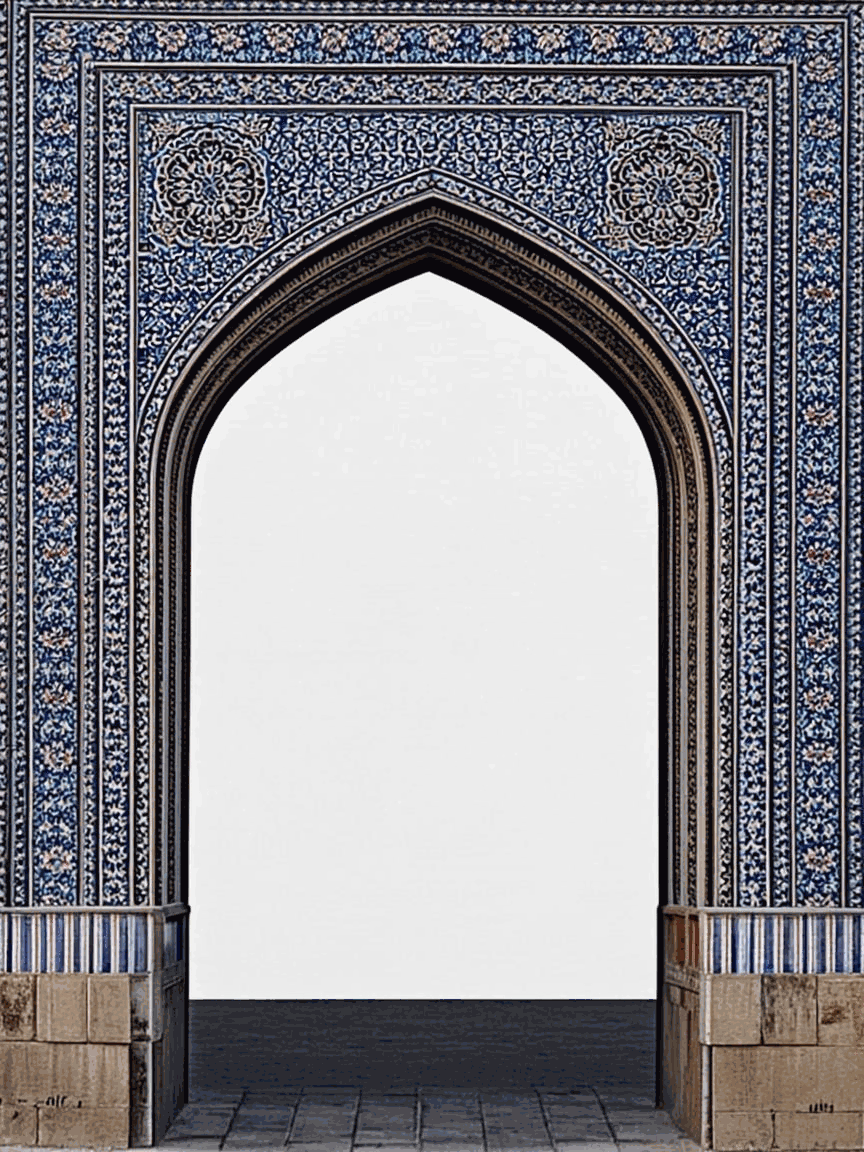
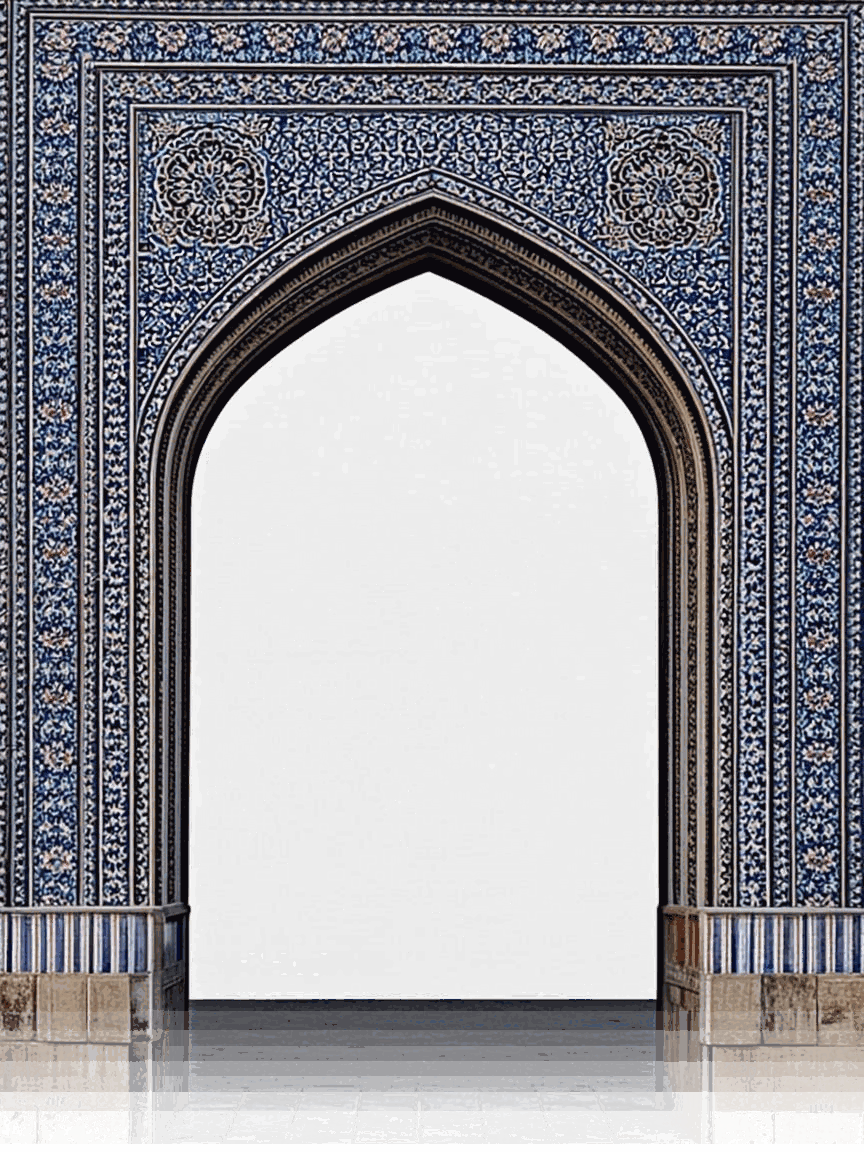
Polish round: clean shamsa halo + arch horizon fade + layout refinements
- shamsa-bukhara.png: circular recut, removed the gray shadow field that
  showed as a white halo (venue plate, Nikah medallion, countdown and
  envelope lace)
- arch-bukhara-tall.png: smoothstep alpha fade across the stone base so
  the pishtaq dissolves into the dawn horizon (kills the rectangle cut
  and the rectangular drop-shadow)
- hero card: fits on all widths now (inner geometry + type trims, closing
  rule retired, mobile rules + letter-spacing tuned); address no longer
  overflows
- particulars: balanced 2x2 grid instead of the orphan reply column
- itinerary band: girih tile texture + saffron hairline + shimmering
  pale-gold script for legibility
- venue: removed the two washed-out ghost lanterns (asset too soft for
  ivory ground); countdown medallion gains a radial mask fade
- event medallions: soft champagne halo ring

Changed region(s): [[0.0, 0.875, 1.0, 1.0]]

diff --git a/css/sections.css b/css/sections.css
@@ -145,15 +145,15 @@
   position: absolute;
   left: 25.5%;
   right: 25.5%;
-  top: 20%;
-  bottom: 16%;
+  top: 19%;
+  bottom: 11.5%;
   z-index: 1;
   display: flex;
   flex-direction: column;
   align-items: center;
   justify-content: center;
   text-align: center;
-  padding: 7% 7%;
+  padding: 5% 6.5%;
   background: linear-gradient(180deg,
     var(--paper-raised) 0%,
     var(--ivory) 52%,
@@ -165,12 +165,12 @@
     0 22px 52px -22px color-mix(in srgb, #06181F 66%, transparent);
 }
 .arch-card__inner > * { max-width: 100%; }
-.arch-card__inner > * + * { margin-top: clamp(.4rem, 1.5vh, .85rem); }
+.arch-card__inner > * + * { margin-top: clamp(.22rem, .8vh, .52rem); }
 
 .arch-card__bismillah {
   font-family: var(--font-arabic);
   font-size: clamp(1rem, 3vw, 1.25rem);
-  line-height: 1.7;
+  line-height: 1.55;
   color: var(--burgundy);
   margin-bottom: 0;
 }
@@ -233,6 +233,9 @@
 }
 .arch-card__rule i:last-child { transform: scaleX(-1); }
 .arch-card__rule img { width: clamp(1.5rem, 5%, 2rem); height: auto; opacity: .9; }
+/* the closing rule yields its place to the venue lines — the label
+   under the venue name already carries its own dash ornament */
+.arch-card__rule--end { display: none; }
 
 .arch-card__date { margin-top: 0; }
 .arch-card__date-week {
@@ -264,7 +267,7 @@
   color: var(--ink-soft);
   letter-spacing: .16em;
   font-size: clamp(.5rem, 1.5vw, .62rem);
-  line-height: 1.9;
+  line-height: 1.72;
   max-width: 100%;
 }
 .arch-card__nikah-sep { color: var(--gold-line); }
@@ -677,6 +680,7 @@
   box-shadow:
     inset 0 0 0 1px color-mix(in srgb, var(--champagne) 62%, transparent),
     inset 0 0 0 5px color-mix(in srgb, var(--champagne) 10%, transparent),
+    0 0 0 6px color-mix(in srgb, var(--champagne) 9%, transparent),
     0 10px 22px -10px color-mix(in srgb, #06181F 55%, transparent);
 }
 .event__numeral {
@@ -770,8 +774,9 @@
 
 .particulars-row {
   display: grid;
-  grid-template-columns: repeat(auto-fit, minmax(200px, 1fr));
-  gap: clamp(1.2rem, 4vw, 2.2rem);
+  grid-template-columns: repeat(auto-fit, minmax(240px, 1fr));
+  gap: clamp(1.5rem, 4.5vh, 2.4rem) clamp(1.2rem, 4vw, 2.2rem);
+  align-items: start;
   margin-top: clamp(1.4rem, 4vh, 2rem);
 }
 
@@ -858,6 +863,28 @@
   overflow: hidden;
 }
 
+/* the same whisper of girih tilework the other lagoons carry */
+.scene--itinerary::before {
+  content: "";
+  position: absolute;
+  inset: 0;
+  background: url("../assets/art/tiles-bukhara.jpg") center / 520px repeat;
+  opacity: .06;
+  pointer-events: none;
+}
+
+/* a fine saffron hairline crowns the band */
+.scene--itinerary::after {
+  content: "";
+  position: absolute;
+  top: 0;
+  left: 0;
+  right: 0;
+  height: 1px;
+  background: linear-gradient(90deg, transparent, color-mix(in srgb, var(--champagne) 34%, transparent) 18% 82%, transparent);
+  pointer-events: none;
+}
+
 .day-words {
   display: flex;
   flex-wrap: wrap;
@@ -924,17 +951,6 @@
   filter: drop-shadow(0 8px 22px rgba(0, 0, 0, .5));
 }
 
-.venue-lantern {
-  position: absolute;
-  top: -1.4rem;
-  width: clamp(3.2rem, 6.6vw, 4.6rem);
-  z-index: 1;
-  transform-origin: 50% 0;
-  animation: lantern-sway 9s ease-in-out infinite alternate;
-}
-.venue-lantern--l { left: 10%; }
-.venue-lantern--r { right: 10%; animation-delay: -3.6s; }
-
 .venue-description { margin-top: clamp(1.8rem, 4.5vh, 2.4rem); }
 
 .venue-sublines { display: grid; gap: .7rem; }
@@ -977,9 +993,11 @@
   left: 50%;
   transform: translate(-50%, -50%);
   width: min(72%, 520px);
-  opacity: .14;
+  opacity: .17;
   pointer-events: none;
   user-select: none;
+  -webkit-mask-image: radial-gradient(closest-side, #000 62%, rgba(0,0,0,.55) 78%, transparent 96%);
+  mask-image: radial-gradient(closest-side, #000 62%, rgba(0,0,0,.55) 78%, transparent 96%);
 }
 
 .scene--countdown .scene-body { position: relative; z-index: 1; }

diff --git a/css/responsive.css b/css/responsive.css
@@ -19,13 +19,18 @@
   .event__note { max-width: 100%; }
 
   .arch-card { width: min(100%, 420px); }
-  .arch-card__inner { left: 25%; right: 25%; top: 19%; bottom: 15%; padding-inline: 7%; }
+  .arch-card__inner { left: 22.5%; right: 22.5%; top: 19%; bottom: 7%; padding: 4.5% 6%; }
 }
 
 @media (max-width: 560px) {
   .arch-card__name { font-size: clamp(2rem, 8vw, 2.5rem); }
-  .arch-card__bismillah { font-size: .95rem; }
-  .arch-card__venue-address { font-size: .56rem; }
+  /* the narrow card drops its hairline rules and tightens the names */
+  .arch-card__rule { display: none; }
+  .arch-card__name { font-size: clamp(1.85rem, 8vw, 2.4rem); }
+  .arch-card__bismillah { font-size: .92rem; }
+  .arch-card__invite { letter-spacing: .13em; }
+  .arch-card__nikah { letter-spacing: .12em; }
+  .arch-card__venue-address { font-size: .56rem; max-width: 32ch; }
   .moon-card__name { font-size: clamp(2rem, 8vw, 2.5rem); }
   .opening__florals { width: clamp(8rem, 30vw, 12rem); }
   .opening__lantern--l { left: .2rem; }

diff --git a/index.html b/index.html
@@ -502,8 +502,6 @@
           <h2 id="venue-title" class="venue-title reveal" data-content="venue.name">The Firuza Mahal</h2>
 
           <div class="venue-stage reveal" data-element-key="venue-ornament">
-            <img class="venue-lantern venue-lantern--l" src="assets/art/lantern-bukhara.png" alt="" aria-hidden="true" loading="lazy" decoding="async" data-element-key="venue-lantern-l">
-            <img class="venue-lantern venue-lantern--r" src="assets/art/lantern-bukhara.png" alt="" aria-hidden="true" loading="lazy" decoding="async" data-element-key="venue-lantern-r">
             <span class="venue-arch" role="img" aria-label="A golden arch niche glowing at dusk" data-element-key="venue-arch">
               <img class="venue-arch__medallion" src="assets/art/shamsa-bukhara.png" alt="" aria-hidden="true" loading="lazy" decoding="async">
             </span>

diff --git a/js/customizer.js b/js/customizer.js
@@ -109,8 +109,6 @@
     'palette-swatches': 'Palette swatches',
     'day-words': 'Wedding-day words',
     'venue-arch': 'Venue arch',
-    'venue-lantern-l': 'Venue lantern (left)',
-    'venue-lantern-r': 'Venue lantern (right)',
     'countdown-shamsa': 'Countdown medallion',
     'countdown-clock': 'Countdown clock',
     'rsvp-watermark': 'RSVP watermark',

diff --git a/css/theme.css b/css/theme.css
@@ -138,6 +138,7 @@ body {
 
 /* a slow light sweep across the dark-band display titles */
 .scene--countdown .count-script em,
+.scene--itinerary .display .script,
 .scene--ayat .ayat-title {
   background: linear-gradient(100deg,
     var(--gold-bright) 30%,
